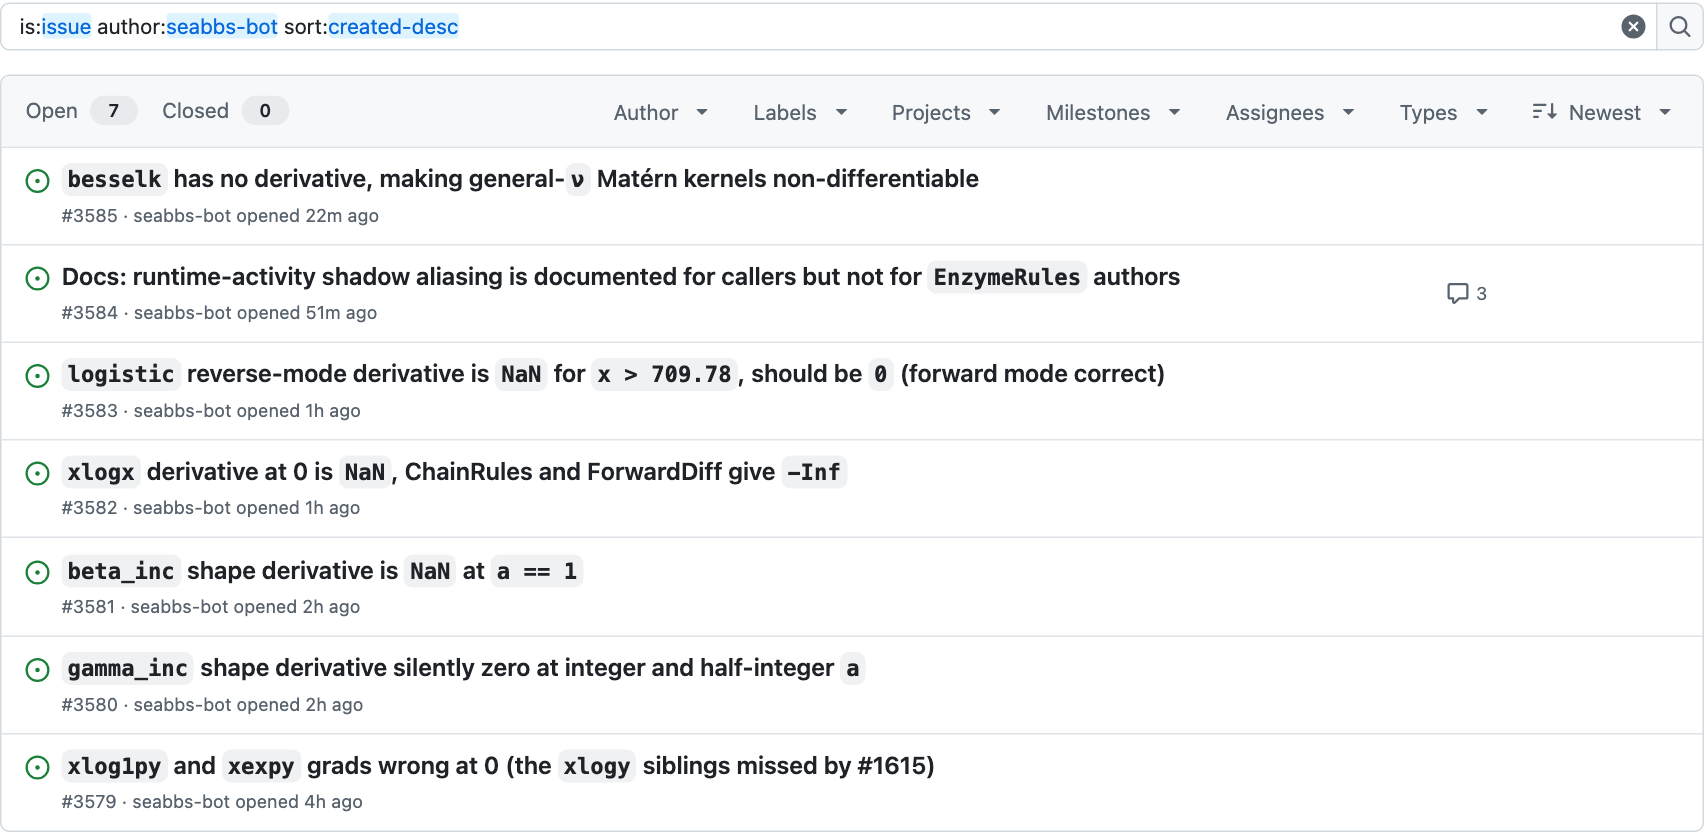
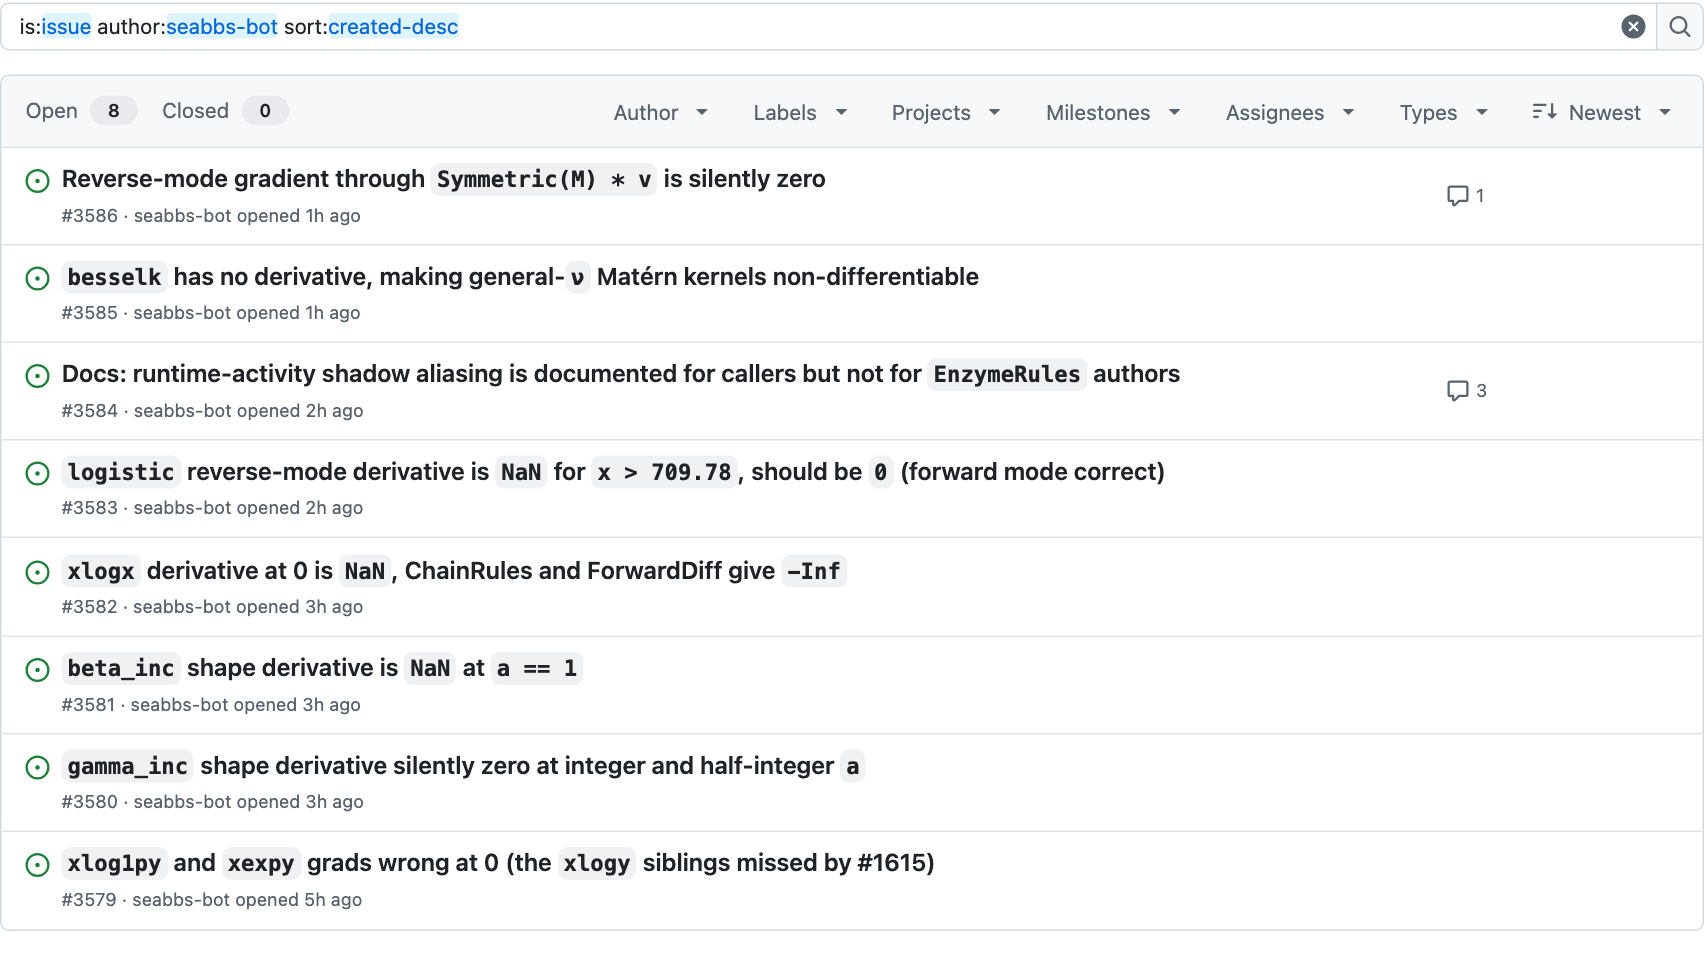
fix: reference corrections from the source check
McCabe 20 May update gets its own DOI. Ebola mid-January count is the
two-country figure the Meltzer projection covered. WHO delay estimates
came from 4,010 of the 4,507 cases. MMWR page, DON602 date, fix_dist
removal version, how-I-llm commit date, SitRep 098 percentage, results
tag count and Enzyme issue count corrected. Bracher and Funk's target,
Aygun et al. 2026, is named. Lison et al. bullet says it is about
nowcasting.

diff --git a/scripts/comms-crop.py b/scripts/comms-crop.py
@@ -42,7 +42,7 @@ CROPS = [
      150, 300, 1535, 918),
     # Enzyme.jl issues by seabbs-bot: the search box and the seven issues.
     ("comms-shot-enzyme-issues", "comms-shot-enzyme",
-     420, 380, 2125, 1220),
+     420, 380, 2125, 1360),
     # The live BVD report: the Limitations heading and first bullets.
     ("comms-shot-bvd-limitations", "comms-shot-bvd-limits",
      560, 735, 1620, 1500),
